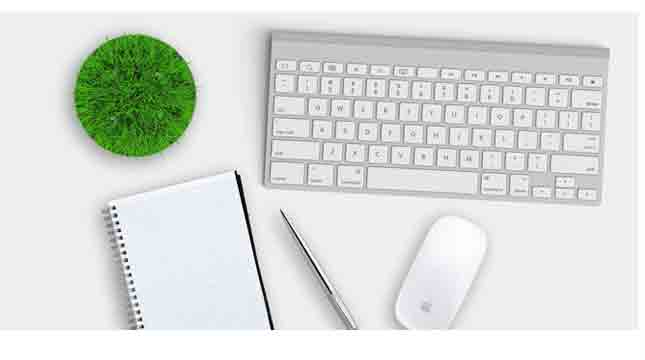
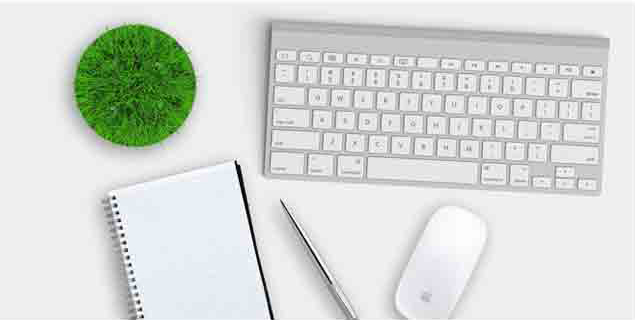
Правки

Changed region(s): [[0.0898, 0.0312, 0.9575, 1.0]]

diff --git a/public/v1/css/general/styles/general.css b/public/v1/css/general/styles/general.css
@@ -127,8 +127,8 @@
 .technology-img{
     width: auto;
     height: auto;
-    max-width: 75px;
-    max-height: 75px;
+    max-width: 100%;
+    max-height: 100%;
 }
 
 .black-link{
